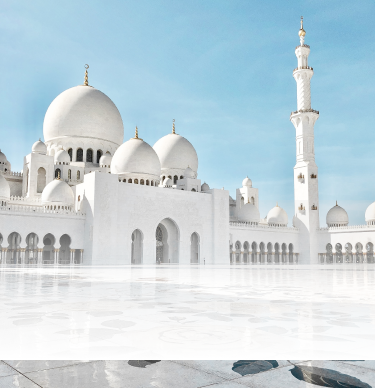
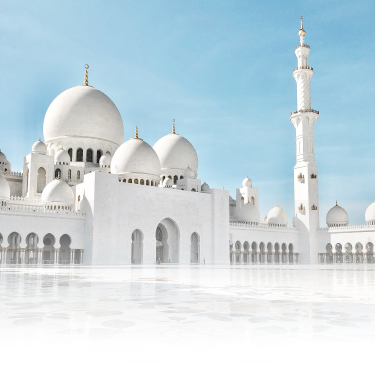
Make Home Screen Responsive

Changed region(s): [[0.0, 0.9278, 1.0, 1.0]]

diff --git a/lib/Presentation/screens/timings_screen.dart b/lib/Presentation/screens/timings_screen.dart
@@ -99,10 +99,11 @@ class _TimingsScreenState extends State<TimingsScreen> {
                                       child: Image.asset(
                                         'assets/mousq.png',
                                         width:
-                                            MediaQuery.of(context).size.width,
+                                            MediaQuery.of(context).size.width *
+                                                0.5,
                                         height:
                                             MediaQuery.of(context).size.height *
-                                                0.5,
+                                                0.50,
                                         fit: BoxFit.cover,
                                       ),
                                     ),
@@ -116,7 +117,7 @@ class _TimingsScreenState extends State<TimingsScreen> {
                                               CrossAxisAlignment.center,
                                           children: [
                                             const SizedBox(
-                                              height: 25,
+                                              height: 18,
                                             ),
                                             //location
                                             Row(
@@ -138,7 +139,7 @@ class _TimingsScreenState extends State<TimingsScreen> {
                                                 const Icon(
                                                   Icons.location_on,
                                                   color: Colors.black54,
-                                                  size: 30,
+                                                  size: 28,
                                                 ),
                                               ],
                                             ),
@@ -151,35 +152,46 @@ class _TimingsScreenState extends State<TimingsScreen> {
                                                   fontWeight: FontWeight.bold,
                                                   color: Colors.black54),
                                             ),
-
                                             Stack(
                                               alignment: Alignment.topCenter,
                                               children: [
-                                                Row(
-                                                  mainAxisAlignment:
-                                                      MainAxisAlignment.center,
-                                                  children: [
-                                                    Text(
-                                                      '  ${appCubit.timesModel!.data.date.readable} : آخر تحديث',
-                                                      style: const TextStyle(
-                                                        fontWeight:
-                                                            FontWeight.w500,
-                                                        fontSize: 23,
-                                                        color: Color.fromARGB(
-                                                            255, 0, 0, 0),
+                                                Container(
+                                                  padding: const EdgeInsets
+                                                      .symmetric(
+                                                      vertical: 1,
+                                                      horizontal: 8),
+                                                  child: Row(
+                                                    mainAxisAlignment:
+                                                        MainAxisAlignment
+                                                            .center,
+                                                    children: [
+                                                      Flexible(
+                                                        child: Text(
+                                                          '  ${appCubit.timesModel!.data.date.readable} : آخر تحديث',
+                                                          textAlign:
+                                                              TextAlign.center,
+                                                          style:
+                                                              const TextStyle(
+                                                            fontWeight:
+                                                                FontWeight.w500,
+                                                            fontSize: 23,
+                                                            color:
+                                                                Color.fromARGB(
+                                                                    255,
+                                                                    0,
+                                                                    0,
+                                                                    0),
+                                                          ),
+                                                        ),
                                                       ),
-                                                    ),
-                                                    const SizedBox(
-                                                      width: 8,
-                                                    ),
-                                                  ],
+                                                    ],
+                                                  ),
                                                 ),
                                               ],
                                             ),
+
                                             //times
-                                            const SizedBox(
-                                              height: 10,
-                                            ),
+
                                             Container(
                                               decoration: const BoxDecoration(
                                                   color: Color(0xFFFFFFFF)),

diff --git a/lib/Presentation/Widgets/widgets.dart b/lib/Presentation/Widgets/widgets.dart
@@ -24,24 +24,33 @@ Widget prayTimeRow({
         mainAxisAlignment: MainAxisAlignment.center,
         children: [
           Expanded(
-              child: Text(
-            en,
-            style: const TextStyle(fontSize: 35),
-          )),
+            flex: 1,
+            child: Text(
+              en,
+              style: const TextStyle(
+                  fontSize: 23), // Adjust the font size as needed
+            ),
+          ),
           Expanded(
-              child: Text(
-            time,
-            style: const TextStyle(
-                fontSize: 35,
+            flex: 1,
+            child: Text(
+              time,
+              style: const TextStyle(
+                fontSize: 23, // Adjust the font size as needed
                 fontWeight: FontWeight.bold,
-                color: Color(0xFF1E5A83)),
-          )),
+                color: Color(0xFF1E5A83),
+              ),
+            ),
+          ),
           Expanded(
-              child: Text(
-            ar,
-            textDirection: TextDirection.rtl,
-            style: const TextStyle(fontSize: 35),
-          )),
+            flex: 1,
+            child: Text(
+              ar,
+              textDirection: TextDirection.rtl,
+              style: const TextStyle(
+                  fontSize: 24), // Adjust the font size as needed
+            ),
+          ),
         ],
       ),
     );
